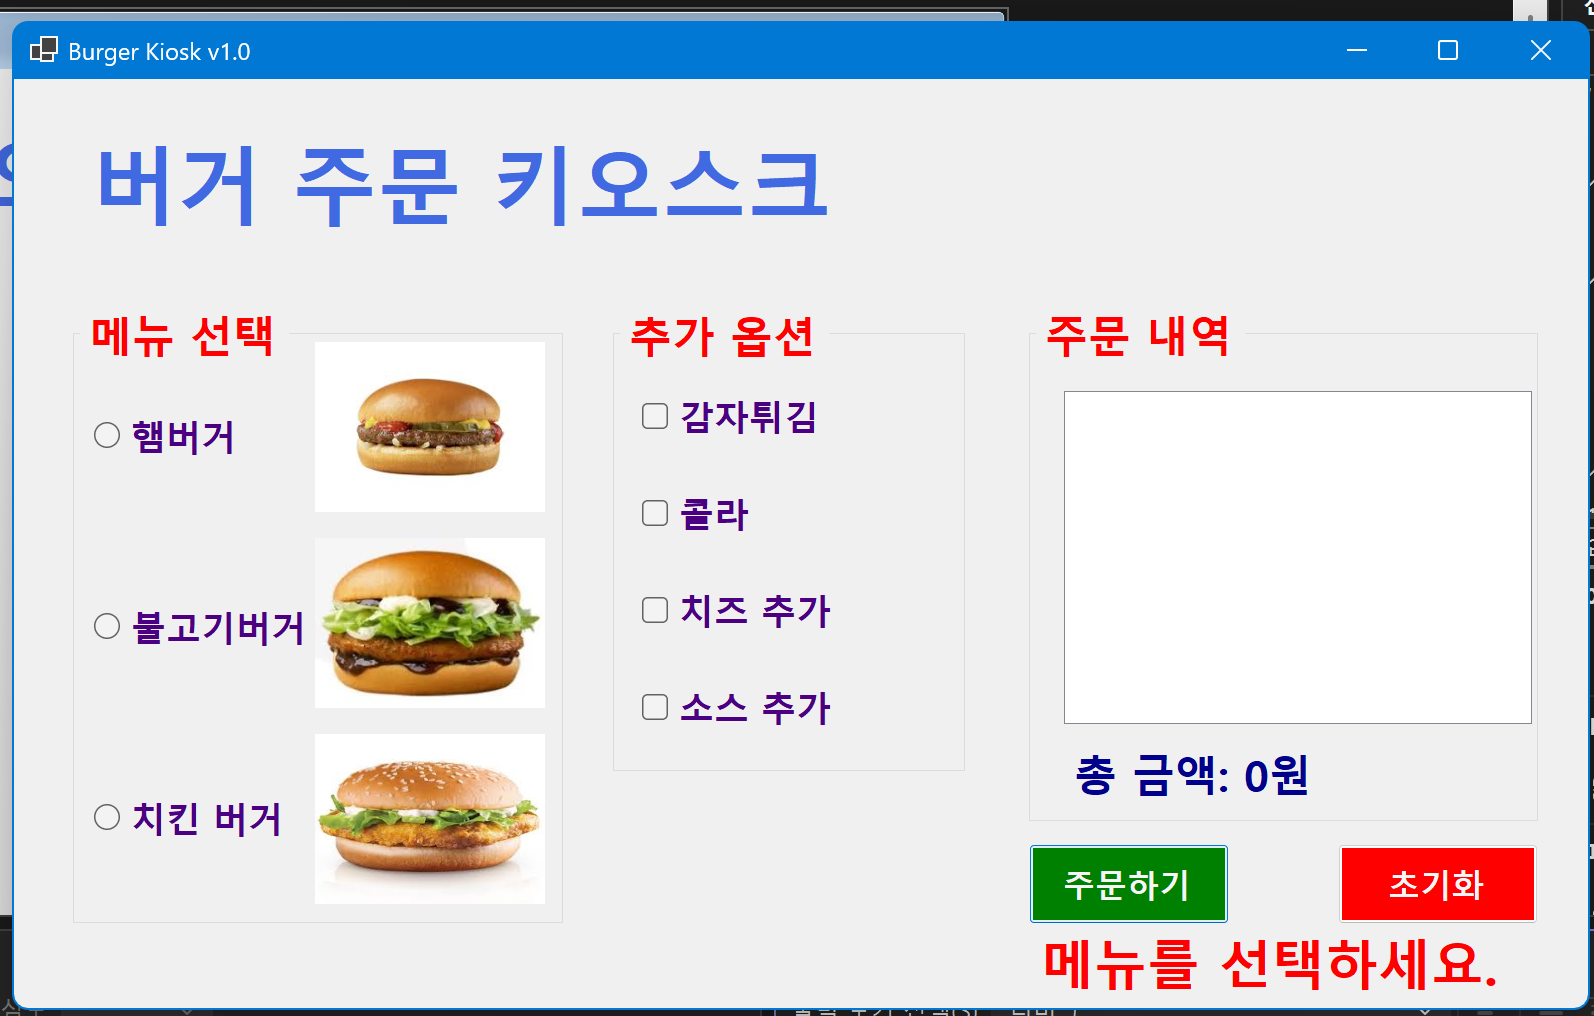
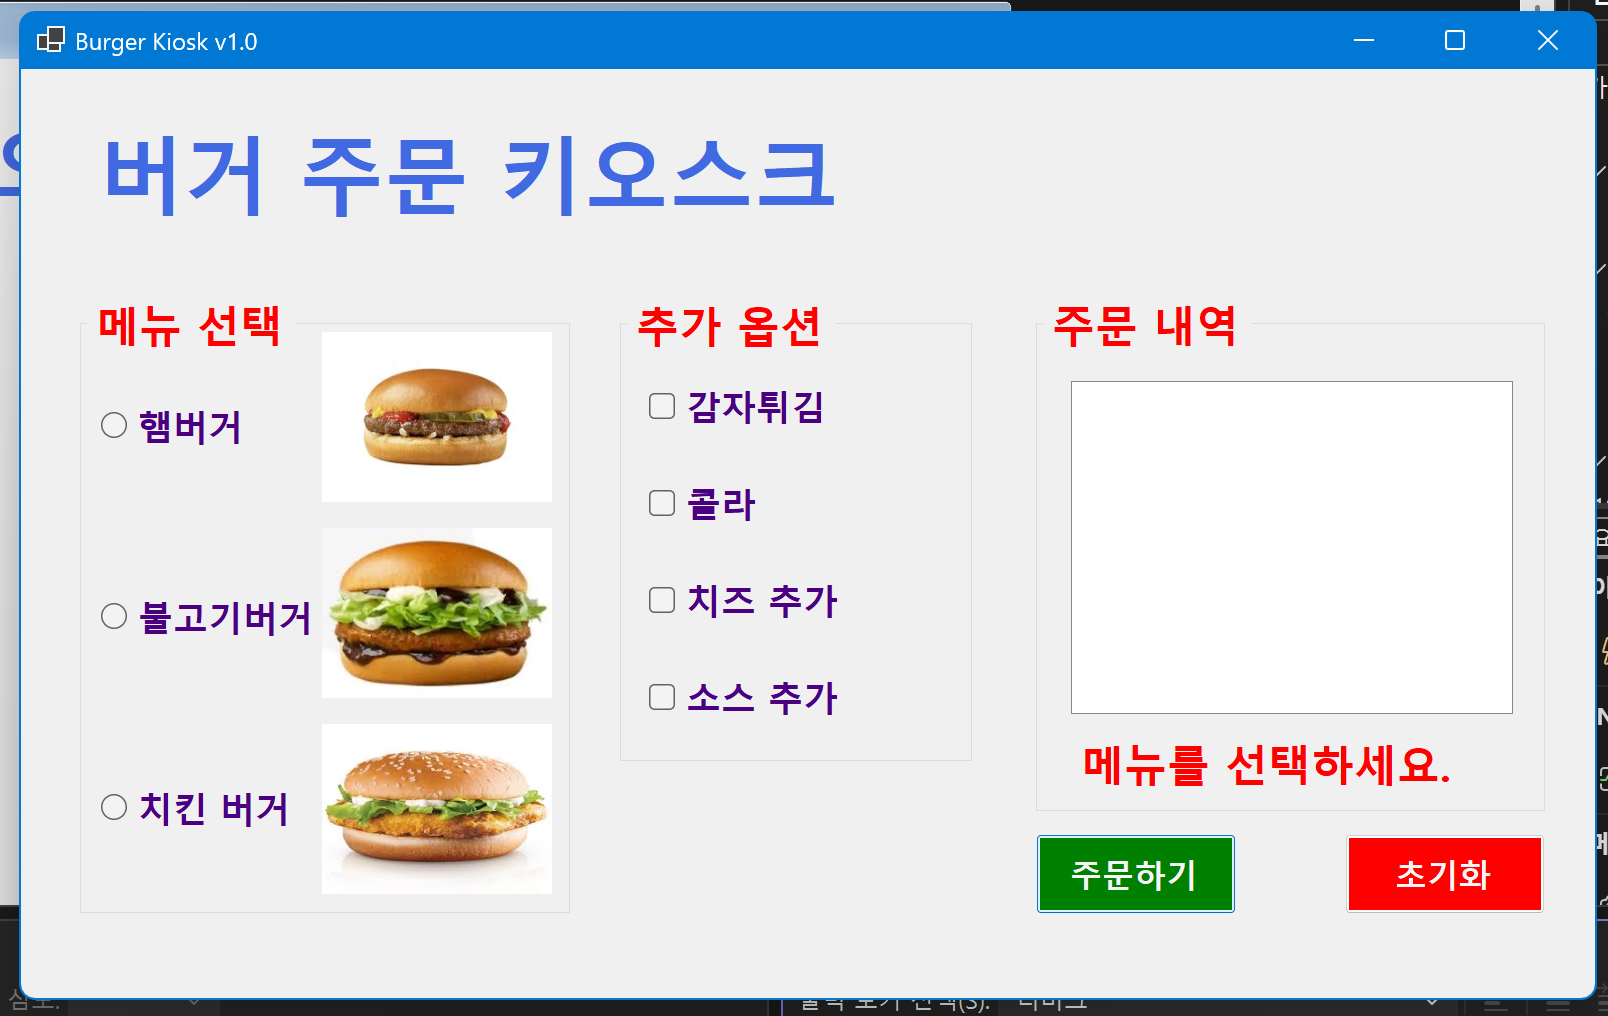
과제2 수정 후 코딩과 테스트 완료
새로운 라벨을 추가하지 않고 기존 라벨에 에러 메시지가 나오도록 수정+readme 수정

diff --git a/Form1.Designer.cs b/Form1.Designer.cs
@@ -44,7 +44,6 @@
             chkSauce = new CheckBox();
             chkCheese = new CheckBox();
             chkCola = new CheckBox();
-            lblStatus = new Label();
             grpOrder = new GroupBox();
             lstOrder = new ListBox();
             lblTotalCost = new Label();
@@ -239,18 +238,6 @@
             chkCola.Text = "콜라";
             chkCola.UseVisualStyleBackColor = true;
             // 
-            // lblStatus
-            // 
-            lblStatus.AutoSize = true;
-            lblStatus.Font = new Font("맑은 고딕", 19.875F, FontStyle.Bold, GraphicsUnit.Point, 0);
-            lblStatus.ForeColor = Color.Red;
-            lblStatus.Location = new Point(1015, 849);
-            lblStatus.Name = "lblStatus";
-            lblStatus.Size = new Size(182, 71);
-            lblStatus.TabIndex = 9;
-            lblStatus.Text = "label1";
-            lblStatus.Visible = false;
-            // 
             // grpOrder
             // 
             grpOrder.Controls.Add(lstOrder);
@@ -271,7 +258,7 @@
             lstOrder.FormattingEnabled = true;
             lstOrder.Location = new Point(35, 87);
             lstOrder.Name = "lstOrder";
-            lstOrder.Size = new Size(468, 333);
+            lstOrder.Size = new Size(442, 333);
             lstOrder.TabIndex = 1;
             // 
             // lblTotalCost
@@ -289,7 +276,6 @@
             AutoScaleDimensions = new SizeF(14F, 32F);
             AutoScaleMode = AutoScaleMode.Font;
             ClientSize = new Size(1574, 929);
-            Controls.Add(lblStatus);
             Controls.Add(grpOrder);
             Controls.Add(grpOption);
             Controls.Add(btnInit);
@@ -333,6 +319,5 @@
         private GroupBox grpOrder;
         private ListBox lstOrder;
         private Label lblTotalCost;
-        private Label lblStatus;
     }
 }

diff --git a/Form1.cs b/Form1.cs
@@ -9,16 +9,13 @@ namespace BurgerKiosk
 
         private void btnOrder_Click(object sender, EventArgs e)
         {
-            lblStatus.Visible = false;
-            lblStatus.Text = "";
+
 
             if (!rdoHamBurger.Checked && !rdoBulgogiBurger.Checked && !rdoChickenBurger.Checked)
             {
                 lstOrder.Items.Clear();
-                lblTotalCost.Text = "총 금액: 0원";
-
-                lblStatus.Text = "메뉴를 선택하세요.";
-                lblStatus.Visible = true;
+                lblTotalCost.ForeColor = Color.Red;
+                lblTotalCost.Text = "메뉴를 선택하세요.";
                 return;
             }
 
@@ -83,8 +80,8 @@ namespace BurgerKiosk
             lstOrder.Items.Clear();
             lblTotalCost.Text = "총 금액: 0원";
 
-            lblStatus.Text = "";
-            lblStatus.Visible = false;
+            lblTotalCost.Text = "";
+            lblTotalCost.Visible = false;
         }
     }
 }
